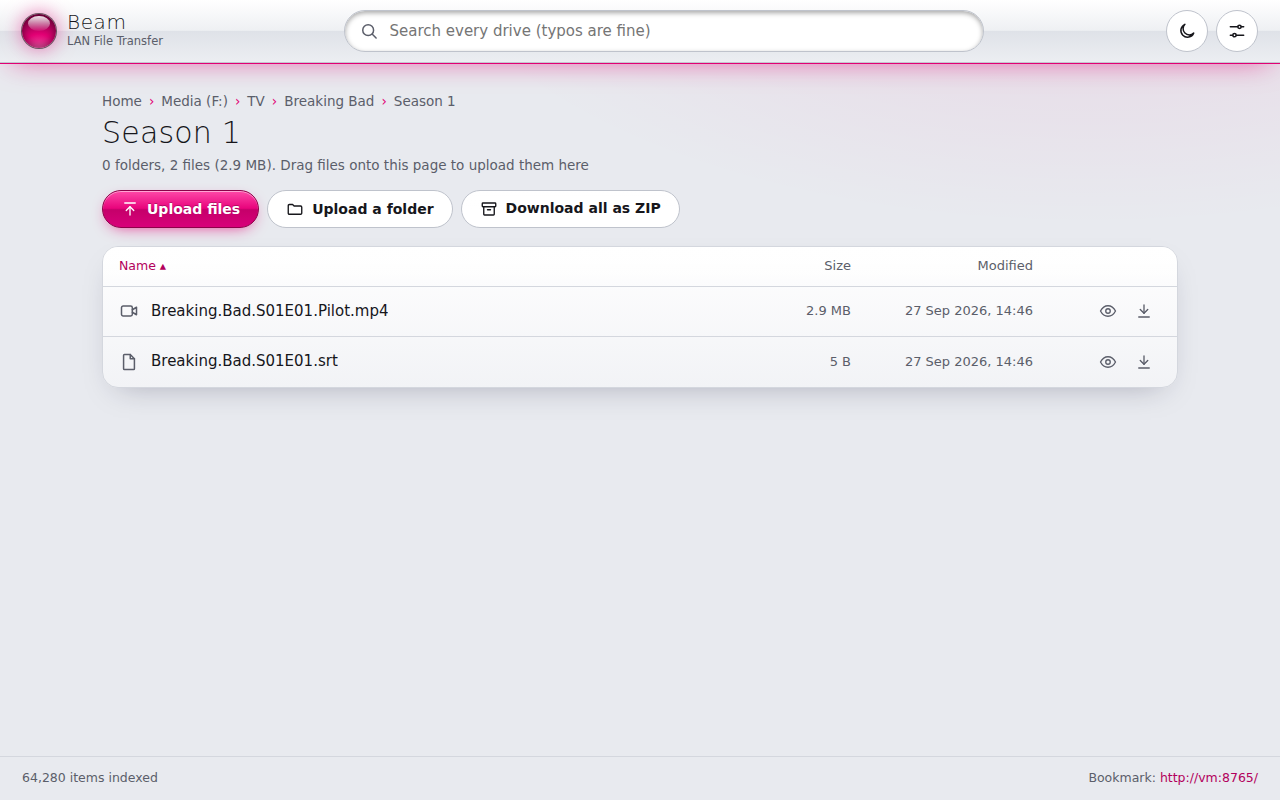
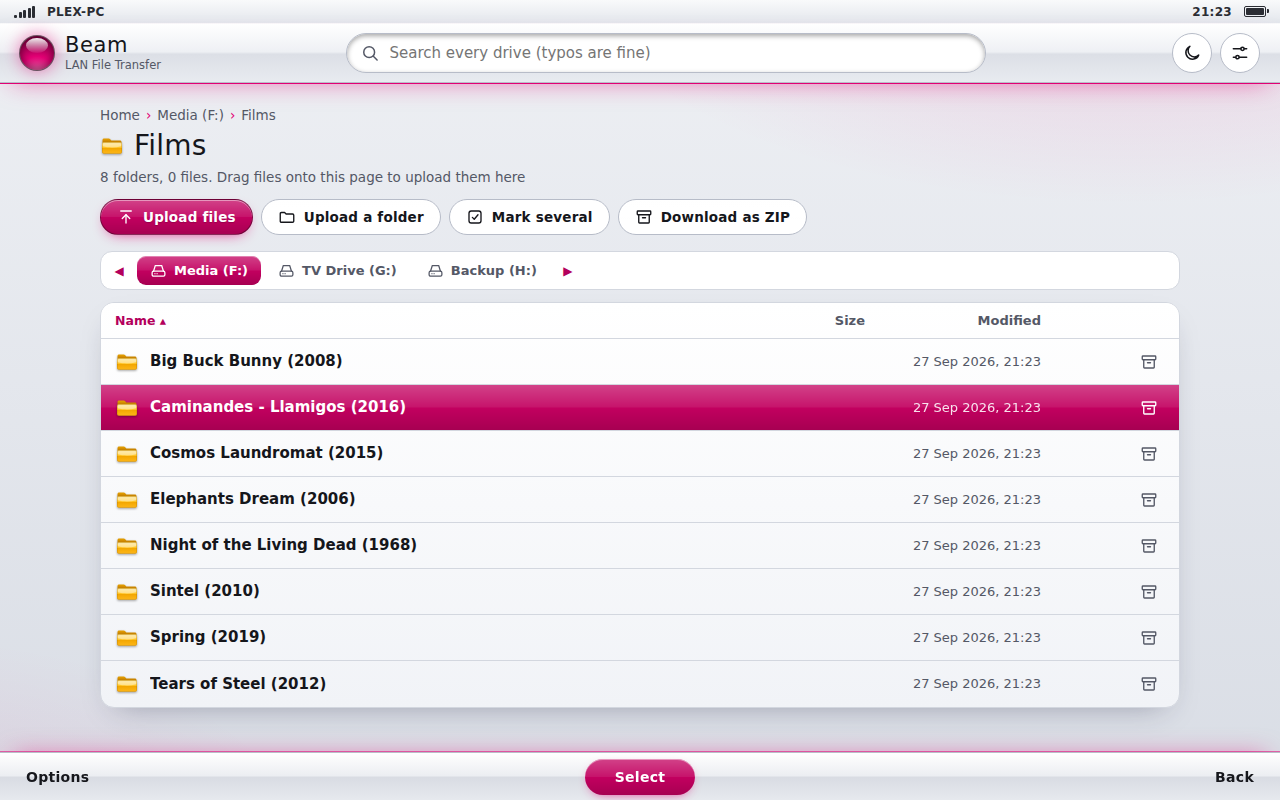
Polish the new interface, refresh README and screenshots
- Phones: long file names wrap after dots so episode numbers stay
  visible; secondary folder buttons move into Options; keyboard hints
  hidden on touch screens; tile captions wrap instead of truncating.
- Transfer stats and speed gauges keep numbers with their units.
- Search: results from one folder stay together in that folder's natural
  order (E01, E02 ... regardless of title length); across folders the
  shorter, more exact name still comes first.
- Signal bars calibrated for browser timing overhead.
- Startup banner prints before network detection and indexing begin, so
  it appears at once and log lines no longer interleave with it.
- README: fastest-transfer guide (Mark several, direct cable, Public
  network fix, speed test), keys, new security notes and troubleshooting.
- Screenshots regenerated for the new interface (20, from a demo library).
- CI: unit tests print detected network interfaces; actions/checkout@v5
  and actions/setup-python@v6 (Node 24).

Claude-Session: https://claude.ai/code/session_01JGBPh7YccrJY32D6Hr6pvh

diff --git a/lan_file_transfer.py b/lan_file_transfer.py
@@ -2008,7 +2008,7 @@ fieldset{border:0;margin:0;padding:0;min-width:0}
 .steps li{margin:4px 0}
 .speed{display:grid;grid-template-columns:repeat(auto-fit,minmax(100px,1fr));gap:10px;margin:4px 0 14px}
 .gauge{padding:12px;border-radius:12px;background:var(--input);border:1px solid var(--line);text-align:center}
-.gauge b{display:block;font:300 26px/1.2 var(--font);font-variant-numeric:tabular-nums}
+.gauge b{display:block;font:300 22px/1.25 var(--font);font-variant-numeric:tabular-nums;white-space:nowrap}
 .gauge small{display:block;font:700 11.5px var(--chrome);color:var(--muted);margin-top:2px}
 .gauge .meter{margin-top:8px;height:8px}
 .login{max-width:400px;margin:48px auto;padding:30px 28px;text-align:center}
@@ -2030,6 +2030,7 @@ fieldset{border:0;margin:0;padding:0;min-width:0}
  .sk-c{min-width:92px}
  .sk kbd{display:none}
  .actions .btn.ghost{display:none}
+ .row .t .n,.live .t .n{white-space:normal;display:-webkit-box;-webkit-line-clamp:2;-webkit-box-orient:vertical;overflow-wrap:anywhere}
 }
 @media (pointer:coarse){.kb{display:none}}
 @media (prefers-reduced-motion:reduce){*{transition:none!important;animation:none!important}}
@@ -2153,8 +2154,10 @@ JS = r"""(() => {
 const $ = (s, r = document) => r.querySelector(s);
 const $$ = (s, r = document) => Array.from(r.querySelectorAll(s));
 const esc = s => String(s).replace(/[&<>"']/g, c => ({"&": "&amp;", "<": "&lt;", ">": "&gt;", '"': "&quot;", "'": "&#39;"}[c]));
-const fmt = n => { if (n == null) return ""; const u = ["B", "KB", "MB", "GB", "TB"]; let i = 0; while (n >= 1024 && i < u.length - 1) { n /= 1024; i++; } return (i ? n.toFixed(1) : Math.round(n)) + " " + u[i]; };
-const left = s => !isFinite(s) || s <= 0 ? "" : s < 60 ? Math.ceil(s) + " s left" : s < 5400 ? Math.round(s / 60) + " min left" : (s / 3600).toFixed(1) + " h left";
+const NB = "\u00a0"; // numbers stay on the same line as their units
+const fmt = n => { if (n == null) return ""; const u = ["B", "KB", "MB", "GB", "TB"]; let i = 0; while (n >= 1024 && i < u.length - 1) { n /= 1024; i++; } return (i ? n.toFixed(1) : Math.round(n)) + NB + u[i]; };
+const left = s => !isFinite(s) || s <= 0 ? "" : (s < 60 ? Math.ceil(s) + NB + "s" : s < 5400 ? Math.round(s / 60) + NB + "min" : (s / 3600).toFixed(1) + NB + "h") + NB + "left";
+const wb = s => esc(s).replace(/([._])/g, "$1<wbr>"); // long dotted names can wrap after a dot
 const mbs = r => (r / 1048576 >= 100 ? Math.round(r / 1048576) : (r / 1048576).toFixed(1));
 const svg = (id, cls) => '<svg class="' + (cls || "ic") + '" aria-hidden="true"><use href="#' + id + '"/></svg>';
 const body = document.body, root = document.documentElement, D = body.dataset, PAGE = D.page || "";
@@ -2391,7 +2394,7 @@ if (q && live) {
       if (d.closest) h += '<div class="hint">No exact match. Closest results:</div>';
       for (const r of d.results) {
         h += '<a role="option" href="' + esc(r.url) + '"' + (r.kind === "f" ? " download" : "") + ">" + svg("f-" + r.icon, "fi") +
-             '<span class="t"><span class="n">' + esc(r.name) + "</span><small>" + esc(r.where) + "</small></span></a>";
+             '<span class="t"><span class="n">' + wb(r.name) + "</span><small>" + esc(r.where) + "</small></span></a>";
       }
       h += '<a class="more" href="/search?q=' + encodeURIComponent(v) + '">See all ' + d.total.toLocaleString() + " result" + (d.total === 1 ? "" : "s") + "</a>";
     }
@@ -2828,10 +2831,10 @@ async function runSpeed() {
   try {
     const p = await rttOf("/api/ping");
     if (p == null) throw new Error("Beam isn't answering");
-    gauge("Ping", (p < 10 ? p.toFixed(1) : Math.round(p)) + " ms", Math.max(0.05, 1 - p / 60));
-    const one = await dlTest(1, 4000); gauge("One", mbs(one) + " MB/s", one / 125e6);
-    const many = await dlTest(4, 4000); gauge("Many", mbs(many) + " MB/s", many / 125e6);
-    const upl = await ulTest(); gauge("Up", mbs(upl) + " MB/s", upl / 125e6);
+    gauge("Ping", (p < 10 ? p.toFixed(1) : Math.round(p)) + NB + "ms", Math.max(0.05, 1 - p / 60));
+    const one = await dlTest(1, 4000); gauge("One", mbs(one) + NB + "MB/s", one / 125e6);
+    const many = await dlTest(4, 4000); gauge("Many", mbs(many) + NB + "MB/s", many / 125e6);
+    const upl = await ulTest(); gauge("Up", mbs(upl) + NB + "MB/s", upl / 125e6);
     let t = "Downloads from " + (D.host || "the Beam PC") + " can reach about " + mbs(Math.max(one, many)) + " MB/s over this connection.";
     if (many > one * 1.2) t += " Several at once are clearly faster here, so use Mark several for batches.";
     t += " For comparison: wired gigabit manages about 110 MB/s, Wi-Fi 6 roughly 40–90, older Wi-Fi 5–30. If a real download is slower than this, the drive is the limit (USB 2.0 drives top out near 35 MB/s).";
@@ -3044,7 +3047,8 @@ def row_html(kind, sid, rel, name, size, mtime, where=None, parent_url=None) -> 
         head = f'<div class="row" data-kind="f" data-name="{en}" data-url="{eh}" data-size="{int(size or 0)}">'
     where_html = f"<small>{esc(where)}</small>" if where else ""
     return (f'{head}<span class="c1"><input type="checkbox" class="mk" tabindex="-1" aria-label="Mark {en}">'
-            f'<a class="nm" href="{href}"{attrs}>{ico}<span class="t"><span class="n">{en}</span>{where_html}</span></a></span>'
+            f'<a class="nm" href="{href}"{attrs}>{ico}<span class="t"><span class="n">{en.replace(".", ".<wbr>").replace("_", "_<wbr>")}</span>'
+            f'{where_html}</span></a></span>'
             f'<span class="num c-size">{human_size(size) if kind == "f" else ""}</span>'
             f'<span class="num c-date">{fmt_time(mtime)}</span><span class="ra">{acts}</span></div>')
 
@@ -4285,24 +4289,26 @@ def main() -> int:
         return 1
 
     real_port = server.server_port
-    threading.Thread(target=index.build, name="indexer", daemon=True).start()
-    threading.Thread(target=periodic_reindex, name="reindexer", daemon=True).start()
-    ifaces = netinfo.refresh_now()
+
+    def announce_cable():  # network details can take a moment on Windows, so don't hold up the banner
+        for iface in netinfo.refresh_now():
+            if is_direct_link(iface):
+                for ip in iface["ips"]:
+                    say(f"  Cable address (fastest):         http://{ip}:{real_port}/")
     shared = ", ".join(s["name"] for s in settings.shares()) or "nothing yet (open Settings)"
     say(line)
     say(f"  BEAM  |  LAN File Transfer  v{VERSION}")
     say("-" * 66)
     say(f"  Bookmark this on your other PC:  http://{HOSTNAME.lower()}:{real_port}/")
     say(f"  Backup address (can change):     http://{primary_ip()}:{real_port}/")
-    for iface in ifaces:
-        if is_direct_link(iface):
-            for ip in iface["ips"]:
-                say(f"  Cable address (fastest):         http://{ip}:{real_port}/")
     say(f"  Settings (on this PC):           http://localhost:{real_port}/settings")
     say(f"  Sharing: {shared}")
     say("-" * 66)
     say("  Leave this window open while you use Beam. Close it to stop.")
     say(line)
+    threading.Thread(target=index.build, name="indexer", daemon=True).start()
+    threading.Thread(target=periodic_reindex, name="reindexer", daemon=True).start()
+    threading.Thread(target=announce_cable, name="netinfo", daemon=True).start()
     log.info("Beam %s started on port %s", VERSION, real_port)
     if settings.first_run and IS_WINDOWS:
         webbrowser.open(f"http://localhost:{real_port}/settings")

diff --git a/tests/unit_test.py b/tests/unit_test.py
@@ -288,6 +288,9 @@ def test_netinfo():
     check("single-item PowerShell output parsed", [x["name"] for x in beam.parse_win_netinfo(single)] == ["Ethernet 2"])
     check("junk tolerated", beam.parse_win_netinfo("nonsense") == [] and beam.parse_win_netinfo({"ad": [1, None]}) == [])
     ifaces = beam.detect_interfaces()
+    print("INFO  interfaces here: " + "; ".join(
+        f"{i['name'] or '?'} ({i['kind']}{', direct' if beam.is_direct_link(i) else ''}"
+        f"{', ' + i['category'] if i.get('category') else ''}) {', '.join(i['ips'])}" for i in ifaces))
     check("this machine's interfaces detected without errors", isinstance(ifaces, list)
           and all({"name", "kind", "ips"} <= set(i) for i in ifaces), json.dumps(ifaces)[:200])
 

diff --git a/README.md b/README.md
@@ -1,21 +1,24 @@
 # Beam
 
-**Open your other PC's drives in a web browser. Search them, drag files in and out. No cloud, no accounts, no cost.**
+**Open your other PC's drives in a web browser. Search them, drag files in and out, download a whole batch at full speed. No cloud, no accounts, no cost.**
 
 Two PCs in the same house, and one of them has the files: a Plex server full of USB drives, an old desktop, a NAS box. Getting a file across usually means uploading it to someone's cloud and downloading it again 30 centimetres away, or losing an evening to Windows network sharing.
 
-Beam is one Python file. Run it on the PC with the drives, bookmark the address it gives you, and every other device on your home network gets a fast, searchable view of those drives.
+Beam is one Python file. Run it on the PC with the drives, bookmark the address it gives you, and every other device on your home network gets a fast, searchable view of those drives, dressed up like the menu of a mid-2000s phone.
 
-![Live search with typo tolerance](docs/screenshots/03_live_search_dark.png)
+![A folder in Beam, with the highlight bar on one episode](docs/screenshots/05_folder_dark.png)
 
 ## What it does
 
 - **Finds your drives itself.** USB and internal drives are detected automatically. Tick the ones to share, and nothing else on the PC is reachable.
-- **Search that forgives typos.** Search every drive at once as you type. "inseption", "braking bad pilot" and "peeky blindrs s04" all find the right thing, in milliseconds, even across tens of thousands of files.
-- **Drag and drop both ways.** Drop files or whole folders onto the page to upload them. In Chrome or Edge you can drag a file *out* of the page straight onto your desktop.
-- **Downloads that resume** if the connection drops, **ZIP a whole folder** in one click, and preview videos, music, images and PDFs in the browser.
+- **Fast over Wi-Fi.** Downloads stream from the drive in large chunks with little overhead (zero-copy on Mac and Linux), and on Windows big transfers get the larger send buffer Wi-Fi needs. **Mark several** files (or a whole season) and Beam downloads four at a time, which fills a Wi-Fi link far better than one after another, while the page stays quick to use.
+- **Even faster over a cable.** Join the two PCs with a network cable and Beam notices the wired route, offers to switch to it, and walks you through the one Windows setting a direct cable needs.
+- **Search that forgives typos.** Search every drive at once as you type. "inseption", "braking bad pilot" and "peeky blindrs s04" all find the right thing, in milliseconds even across hundreds of thousands of files, and a season's episodes come back in order.
+- **Drag and drop both ways.** Drop files or whole folders onto the page to upload them, three at a time. In Chrome or Edge you can drag a file *out* of the page straight onto your desktop.
+- **Downloads that resume** if the connection drops, **ZIP a folder or just the marked items** with a proper progress bar and time left, and preview videos, music, images and PDFs in the browser.
+- **A built-in speed test** shows what your network can really do, one download at a time and four at once.
+- **Looks and works like a 2000s phone menu.** Signal bars (which really measure the connection), a clock, soft keys along the bottom (Options, Select, Back), a glossy highlight bar you steer with the arrow keys, and five colour themes in dark or light.
 - **A bookmark that keeps working.** The address uses the PC's name rather than its IP, so it survives the router handing out new addresses.
-- **Dark and light themes**, working nicely on phones too.
 - **Never deletes or overwrites anything.** An upload that clashes with an existing name is saved as `name (1).ext`.
 - **Optional password**, start-with-Windows, and a stop button, all in Settings.
 - **Nothing to install** apart from Python. Standard library only.
@@ -28,17 +31,51 @@ Beam is one Python file. Run it on the PC with the drives, bookmark the address 
 4. **When Windows Firewall asks, tick "Private networks" and click Allow.** If you skip this, other PCs can't connect.
 5. **On your other PC**, open the **Bookmark** address shown in the Beam window (something like `http://plex-pc:8000/`) and favourite it.
 
-To have Beam running whenever the PC is on, switch on **Start with Windows** in Settings.
+To have Beam running whenever the PC is on, switch on **Start with Windows** in Settings > System.
+
+## Fastest transfers
+
+**Several files:** open the folder, choose **Mark several** (or Options > Mark several), tick what you want (Shift-click ticks a run), then **Download**. Beam keeps four downloads going at once and shows their combined speed and time left. The first time, your browser may ask whether Beam may download multiple files: choose **Allow**. **As one ZIP** puts the marked items in a single download instead.
+
+**Every file in a folder:** Options > **Download all files** does the same for everything in the folder.
+
+**Over a cable (the megarapid option):** Wi-Fi is fine for everyday use, but a cable is several times faster and much steadier.
+
+- *Both PCs plugged into the router by cable?* You're already there; nothing to change.
+- *A cable straight between the two PCs:*
+  1. Plug an ordinary network cable into both PCs. Wi-Fi can stay on.
+  2. Wait about a minute. With no router on the cable, Windows gives each PC an automatic address starting `169.254.`
+  3. Windows usually treats that cable as a **Public** network, and its firewall then blocks Beam on it. Settings > Connection on the Beam PC flags this and has a button to make it Private (Windows asks for permission), plus the PowerShell command if you'd rather do it yourself.
+  4. Open Beam on the other PC as usual. It spots the wired route and offers to switch (look for **Cable** in the status bar), or open the cable address shown in Settings > Connection.
+
+**Not sure where the bottleneck is?** Run the **speed test** in Settings > Connection. It measures the network only, never your drives. If real downloads are much slower than the test, the drive is the limit: USB 2.0 drives top out around 35 MB/s. For comparison, wired gigabit manages about 110 MB/s, Wi-Fi 6 roughly 40 to 90 MB/s, and older Wi-Fi 5 to 30 MB/s.
+
+## Keys
+
+| Key | Does |
+|---|---|
+| <kbd>↑</kbd> <kbd>↓</kbd> | Move the highlight |
+| <kbd>Enter</kbd> or <kbd>→</kbd> | Open (→ opens folders) |
+| <kbd>←</kbd> or <kbd>Backspace</kbd> | Back up a level |
+| <kbd>/</kbd> | Jump to search |
+| <kbd>Space</kbd> | Mark or unmark, in Mark several |
+| <kbd>Esc</kbd> | Close menus, stop marking |
+
+The soft keys along the bottom are **Options** (everything you can do on that page), **Select** and **Back**.
 
 ## Screenshots
 
-| Home | A folder |
+| Main menu | A folder |
 |---|---|
-| ![Home, dark](docs/screenshots/01_home_dark.png) | ![Folder, light](docs/screenshots/06_folder_light.png) |
-| **Uploading** | **Settings** |
-| ![Upload progress](docs/screenshots/09_uploading_dark.png) | ![Settings](docs/screenshots/10_settings_dark.png) |
+| ![Main menu, dark](docs/screenshots/01_home_dark.png) | ![Folder, light](docs/screenshots/06_folder_light.png) |
+| **Mark several** | **Downloading and uploading** |
+| ![Mark several](docs/screenshots/14_mark_several_dark.png) | ![Transfers in progress](docs/screenshots/09_uploading_dark.png) |
+| **Speed test** | **A faster route found** |
+| ![Speed test](docs/screenshots/16_speed_test_dark.png) | ![Faster connection offer](docs/screenshots/17_faster_connection_orange.png) |
+| **Typo-tolerant search** | **Colour themes** |
+| ![Live search](docs/screenshots/03_live_search_dark.png) | ![Orange theme](docs/screenshots/18_walkman_orange.png) |
 
-More in [`docs/screenshots`](docs/screenshots). They were taken on a test machine, so the paths and PC name differ from what you'll see.
+More in [`docs/screenshots`](docs/screenshots), including phone-sized ones. They were taken on a test machine with made-up files, so paths and sizes differ from what you'll see.
 
 ## Mac and Linux
 
@@ -48,16 +85,18 @@ Beam runs anywhere Python 3.8+ does:
 python3 lan_file_transfer.py
 ```
 
-Then open `http://localhost:8000/settings` on that machine and add the folders to share by path. Automatic drive detection and start-at-login are Windows-only for now.
+Then open `http://localhost:8000/settings` on that machine and add the folders to share by path. Automatic drive detection and start-at-login are Windows-only for now; spotting a wired route works on Windows and Linux.
 
 ## Security
 
 Beam is designed for a **trusted home network**. Here is what protects you:
 
 - Only the drives and folders you tick are reachable, and tricks for escaping them (`..`, symlinks, junctions, Windows alternate data streams) are blocked.
+- Hidden and system files and folders (like `.ssh` or `AppData`) can't be opened, even by typing their address, unless you switch on **Show hidden files**.
+- Uploads never replace anything, and Beam refuses hidden files and the Windows files that make Explorer act just by showing a folder (`desktop.ini`, shortcuts, `.url`, `.scf` and similar).
 - Settings can only be changed on the PC running Beam, unless you set a password.
-- Passwords are stored as salted PBKDF2 hashes. Sign-in cookies are signed, and repeated wrong guesses trigger a lockout.
-- Other websites can't use your browser to upload files or change settings (origin checks plus a custom header), and Beam ignores requests addressed to names other than its own (DNS rebinding protection).
+- Passwords are stored as salted PBKDF2 hashes. Sign-in cookies are signed, and repeated wrong guesses trigger a lockout. Switching to the cable address uses a one-time link that expires after two minutes.
+- Other websites can't use your browser to upload files or change settings (origin checks plus a custom header), and Beam ignores requests addressed to names other than its own (DNS rebinding protection). Its pages only run Beam's own script.
 - Files from your drives are never rendered as web pages, so a shared `.html` or `.svg` file can't run scripts.
 
 And here are the limits, so you can decide for yourself:
@@ -65,6 +104,7 @@ And here are the limits, so you can decide for yourself:
 - **Without a password, anyone on your home network can browse the shared drives while Beam is running.** If you have guests or flatmates on your Wi-Fi, set one.
 - **Traffic is plain HTTP, not encrypted.** That's normal for a home LAN, but it means someone on the same network could, in principle, watch files and passwords go past. Don't run Beam on public or untrusted networks.
 - **Never expose Beam to the internet** through port forwarding. It isn't built for that.
+- Sharing a whole user folder (`C:\Users\You`) isn't a good idea even with hidden files off; share the folders you need.
 
 Found a problem? See [SECURITY.md](SECURITY.md).
 
@@ -72,13 +112,19 @@ Found a problem? See [SECURITY.md](SECURITY.md).
 
 **The other PC can't connect.** Check both PCs are on the same network. On the Beam PC, go to Settings → Network & Internet and make sure the network is set to **Private**, not Public. If you clicked Cancel on the firewall prompt, open *Windows Security → Firewall & network protection → Allow an app through firewall* and tick **Python** under Private.
 
+**Downloads are slow.** Run the speed test in Settings > Connection. If the test is slow too, it's the network: move closer to the router, use the 5 GHz band, or use a cable. If the test is fast but files are slow, it's the drive (older USB drives and USB 2.0 ports are the usual culprits). For lots of files, use Mark several so four run at once.
+
+**The cable doesn't work, or Beam doesn't offer it.** Give Windows a minute after plugging in. Then check Settings > Connection on the Beam PC: if the cable network is marked Public, make it Private there. Some PCs need the cable connection's IP settings left on "Automatic (DHCP)" for the automatic 169.254 address to appear.
+
+**My browser asks about downloading multiple files.** That's Mark several starting its batch. Choose Allow; the browser remembers it for Beam.
+
 **The bookmark address doesn't work, but the backup IP address does.** Some routers don't pass PC names around. Set a **DHCP reservation** for the Beam PC in your router settings, then bookmark the IP address instead. It will stay the same from then on.
 
 **"Port 8000 is already in use".** Beam is probably already running, perhaps in the background via Start with Windows, so just open the bookmark. If another program owns that port, change `"port"` in `beam_settings.json`.
 
 **"Python isn't installed".** Reinstall Python and tick **"Add python.exe to PATH"** on the first screen.
 
-**Something else.** `beam.log`, next to the script, records errors, uploads and downloads.
+**Something else.** `beam.log`, next to the script, records errors, uploads and downloads (with their speeds).
 
 ## Files Beam creates
 
@@ -90,10 +136,11 @@ Both are created next to `lan_file_transfer.py`:
 ## Running the tests
 
 ```
+python tests/unit_test.py
 python tests/smoke_test.py
 ```
 
-This starts a real Beam server and checks browsing, typo-tolerant search, uploads, downloads, resume, ZIPs and the security checks. GitHub Actions runs it on Windows, macOS and Linux for every change.
+The unit tests check the building blocks: that the fast search gives exactly the same matches as scanning every word, that ZIPs are valid and exactly the size announced, and the path, upload and sign-in safety rules. The smoke test starts a real Beam server and checks browsing, search, uploads, downloads, resume, ZIPs, keep-alive, compression, the speed test and the security checks. GitHub Actions runs both on Windows, macOS and Linux for every change.
 
 ## Licence
 
